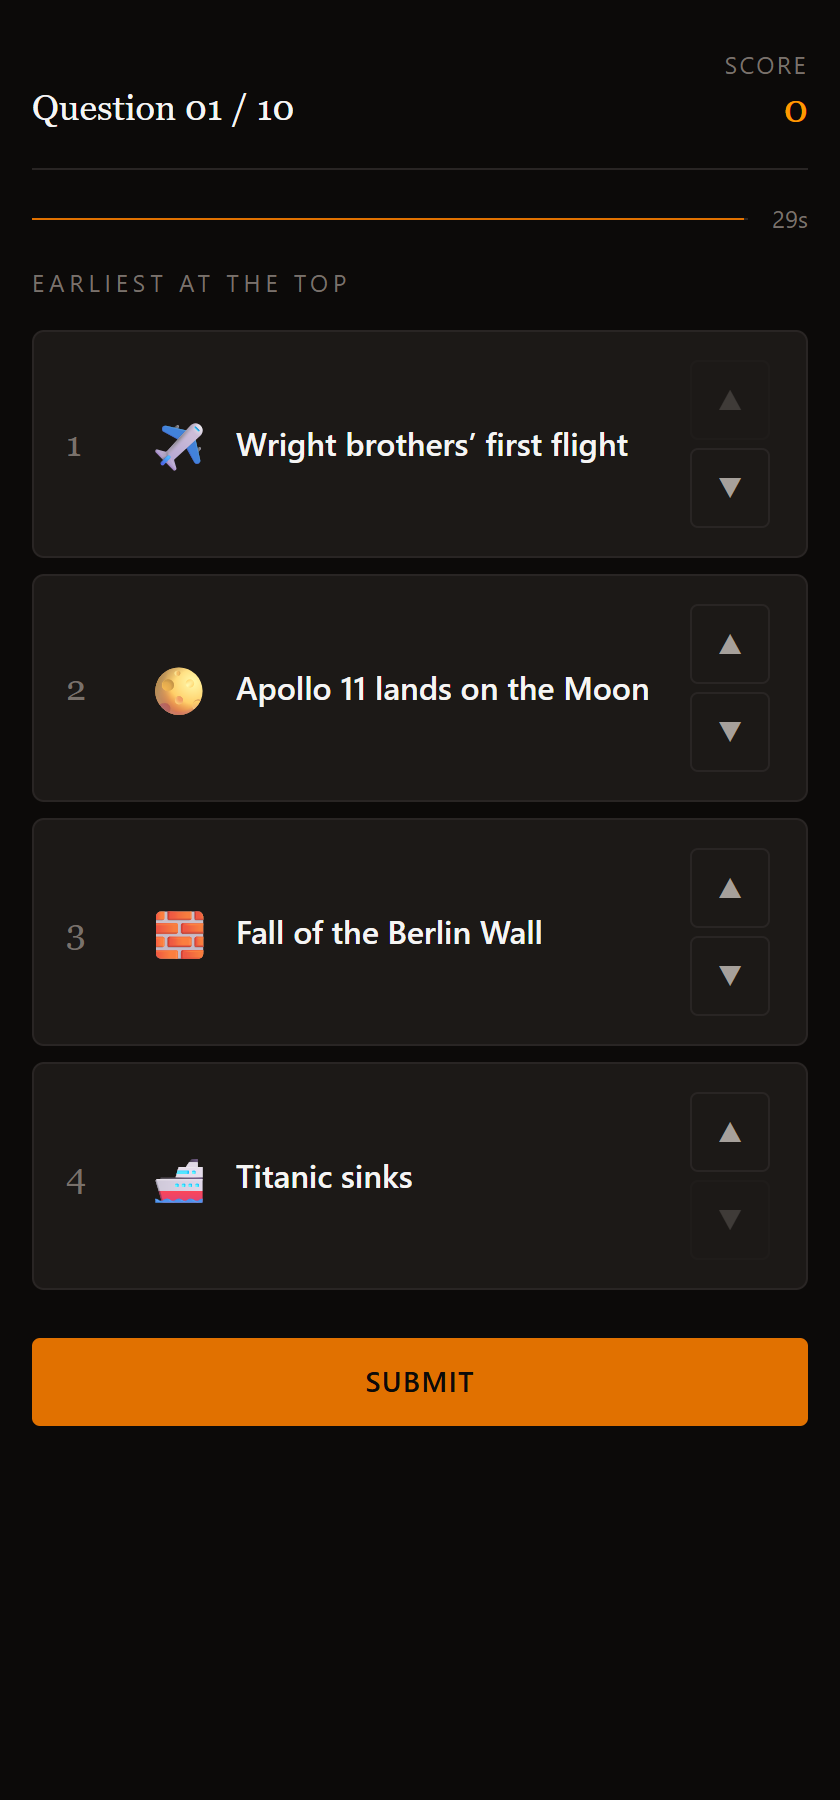
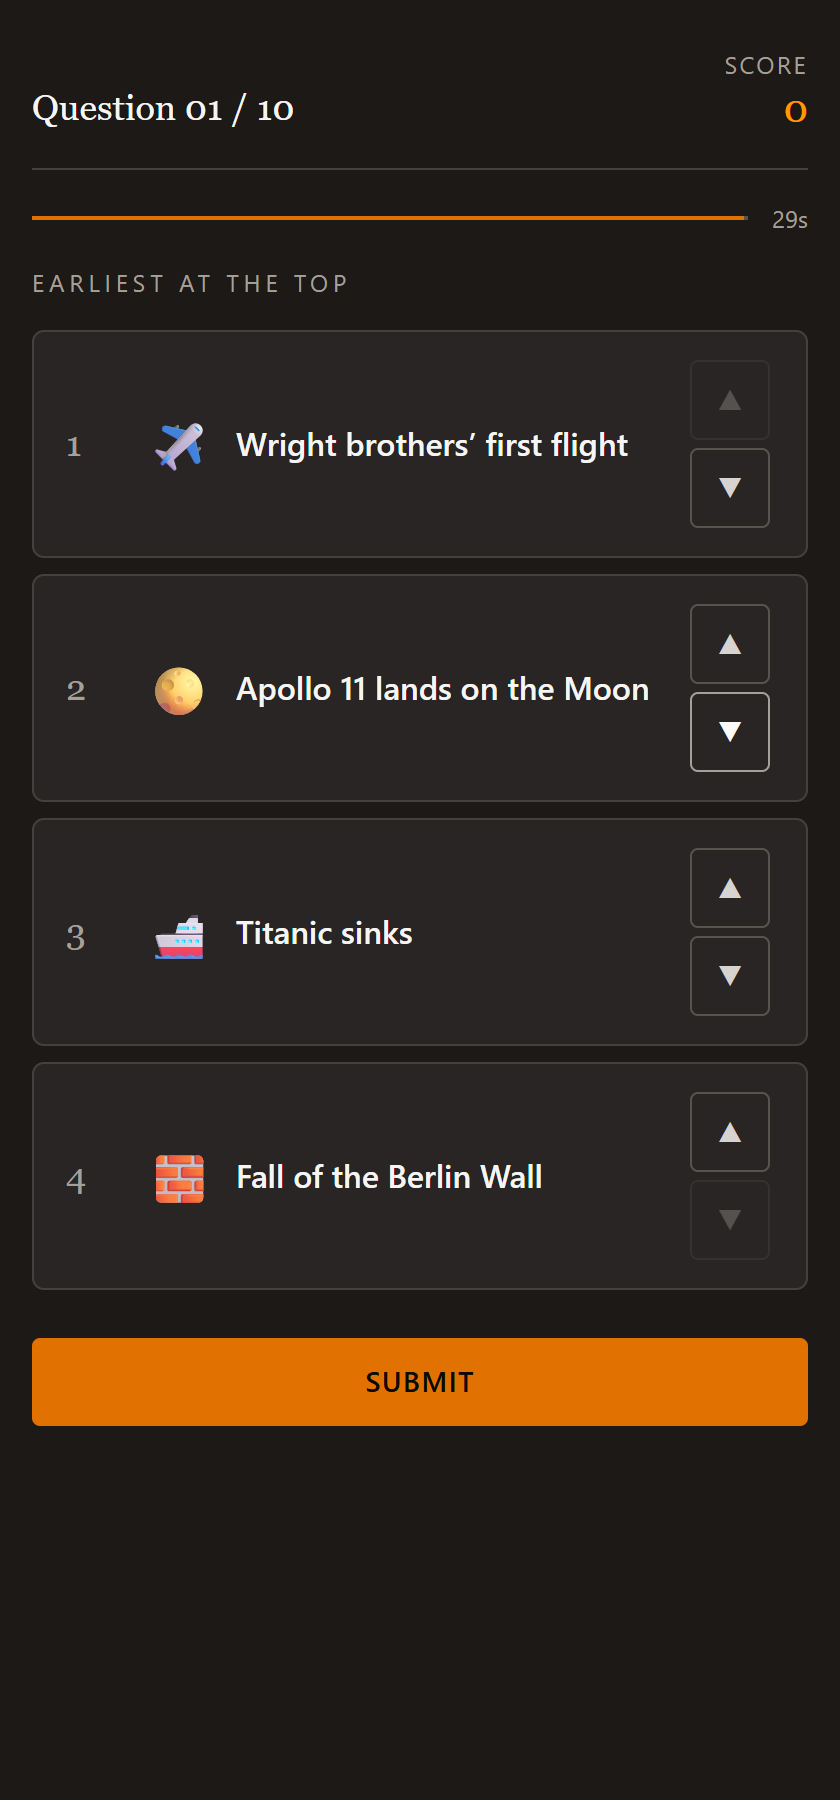
Move leaderboard onto the landing page and lighten the palette
Drop the separate leaderboard screen in favour of an inline section on the
start page (with the player's projected rank after a game), and lift the
theme from near-black to charcoal for readability.

Generated with [Devin](https://devin.ai)

diff --git a/which-happened-first/src/App.tsx b/which-happened-first/src/App.tsx
@@ -22,14 +22,14 @@ function shuffle(events: HistoricalEvent[]): HistoricalEvent[] {
   return arr;
 }
 
-type Phase = 'start' | 'playing' | 'results' | 'leaderboard';
+type Phase = 'start' | 'playing' | 'results';
 type Result = { correct: boolean; points: number; slots: boolean[] };
 
 const btnPrimary =
   'rounded-sm px-6 py-3 font-semibold uppercase tracking-wider text-sm bg-amber-600 hover:bg-amber-500 text-stone-950 transition-colors';
 const btnGhost =
-  'rounded-sm px-6 py-3 text-sm uppercase tracking-wider border border-stone-700 text-stone-300 hover:border-stone-500 hover:text-stone-100 transition-colors';
-const sectionLabel = 'text-xs uppercase tracking-[0.2em] text-stone-500';
+  'rounded-sm px-6 py-3 text-sm uppercase tracking-wider border border-stone-600 text-stone-200 hover:border-stone-400 hover:text-stone-100 transition-colors';
+const sectionLabel = 'text-xs uppercase tracking-[0.2em] text-stone-400';
 
 export default function App() {
   const [phase, setPhase] = useState<Phase>('start');
@@ -43,7 +43,6 @@ export default function App() {
   const [bestStreak, setBestStreak] = useState(0);
   const [lastResult, setLastResult] = useState<Result | null>(null);
   const [lastScore, setLastScore] = useState<number | null>(null);
-  const [leaderboardFrom, setLeaderboardFrom] = useState<'start' | 'results'>('start');
 
   const correctOrder = [...QUESTIONS[qIndex]].sort((a, b) => a.year - b.year);
   const revealed = submitted;
@@ -107,29 +106,32 @@ export default function App() {
     setSubmitted(false); setTimeLeft(TOTAL_TIME); setLastResult(null);
   };
 
-  const openLeaderboard = (from: 'start' | 'results') => {
-    setLeaderboardFrom(from);
-    setPhase('leaderboard');
-  };
-
   const shown = revealed ? correctOrder : order;
 
   return (
-    <div className="min-h-screen bg-stone-950 text-stone-100">
+    <div className="min-h-screen bg-stone-900 text-stone-100">
       <div className="max-w-xl mx-auto p-4 sm:p-6">
         {phase === 'start' && (
           <div className="pt-14">
             <p className={sectionLabel}>A chronology game</p>
             <h1 className="font-display text-4xl sm:text-5xl tracking-tight mt-3">Which Happened First?</h1>
-            <p className="text-stone-400 mt-4">Four events. Thirty seconds. Put them in order.</p>
+            <p className="text-stone-300 mt-4">Four events. Thirty seconds. Put them in order.</p>
             <div className="flex gap-3 mt-8">
               <button type="button" className={btnPrimary} onClick={start}>Start</button>
-              <button type="button" className={btnGhost} onClick={() => openLeaderboard('start')}>
+              <button
+                type="button"
+                className={btnGhost}
+                onClick={() =>
+                  document.getElementById('leaderboard')?.scrollIntoView({ behavior: 'smooth' })
+                }
+              >
                 Leaderboard
               </button>
             </div>
 
-            <div className="border-t border-stone-800 mt-12 pt-10 space-y-10">
+            <div className="border-t border-stone-700 mt-12 pt-10 space-y-10">
+              <Leaderboard playerScore={lastScore} />
+
               <section>
                 <p className={sectionLabel}>How it works</p>
                 <div className="grid sm:grid-cols-3 gap-6 mt-4">
@@ -140,7 +142,7 @@ export default function App() {
                   ].map((step, i) => (
                     <div key={step}>
                       <div className="font-display text-amber-500 text-lg">{String(i + 1).padStart(2, '0')}</div>
-                      <p className="text-stone-300 text-sm leading-relaxed mt-1">{step}</p>
+                      <p className="text-stone-200 text-sm leading-relaxed mt-1">{step}</p>
                     </div>
                   ))}
                 </div>
@@ -148,7 +150,7 @@ export default function App() {
 
               <section>
                 <p className={sectionLabel}>Scoring</p>
-                <dl className="divide-y divide-stone-800 mt-4 border-y border-stone-800">
+                <dl className="divide-y divide-stone-700 mt-4 border-y border-stone-700">
                   {[
                     ['Perfect order', '100 pts'],
                     ['Time bonus (perfect order only)', '+1 pt per second left'],
@@ -157,7 +159,7 @@ export default function App() {
                     ['Maximum per game', '1,300 pts'],
                   ].map(([term, def]) => (
                     <div key={term} className="flex justify-between py-2.5 text-sm">
-                      <dt className="text-stone-400">{term}</dt>
+                      <dt className="text-stone-300">{term}</dt>
                       <dd className="text-stone-100 font-display tabular-nums">{def}</dd>
                     </div>
                   ))}
@@ -166,14 +168,14 @@ export default function App() {
 
               <section>
                 <p className={sectionLabel}>What you'll face</p>
-                <p className="text-stone-300 leading-relaxed mt-4 text-sm">
+                <p className="text-stone-200 leading-relaxed mt-4 text-sm">
                   Ten rounds, easy to hard — from the pyramids and the Roman Republic
                   through the medieval world to the twentieth century. Only the titles
                   are shown; the dates are revealed after you answer.
                 </p>
               </section>
 
-              <p className="text-xs text-stone-600">
+              <p className="text-xs text-stone-500">
                 No account needed · Runs entirely in your browser
               </p>
             </div>
@@ -182,12 +184,12 @@ export default function App() {
 
         {phase === 'playing' && (
           <div className="flex flex-col gap-4 pt-2">
-            <div className="flex items-end justify-between border-b border-stone-800 pb-4">
+            <div className="flex items-end justify-between border-b border-stone-700 pb-4">
               <span data-testid="question" className="font-display text-lg tabular-nums">
                 Question {String(qIndex + 1).padStart(2, '0')} / {NUM_QUESTIONS}
               </span>
               <div className="text-right">
-                <div className="text-stone-500 text-xs uppercase tracking-widest">Score</div>
+                <div className="text-stone-400 text-xs uppercase tracking-widest">Score</div>
                 <div data-testid="score" className="font-display text-xl text-amber-500 tabular-nums">{score}</div>
               </div>
             </div>
@@ -226,7 +228,7 @@ export default function App() {
                   >
                     {lastResult?.correct ? 'Correct' : 'Incorrect'} — +{lastResult?.points}
                   </div>
-                  <div className="text-stone-500 text-sm mt-0.5">
+                  <div className="text-stone-400 text-sm mt-0.5">
                     {lastResult?.correct
                       ? `Perfect order · 100 pts + ${lastResult.points - 100} s bonus`
                       : `${lastResult?.slots.filter(Boolean).length} of ${shown.length} cards in place`}
@@ -246,36 +248,28 @@ export default function App() {
             <div data-testid="final-score" className="font-display text-7xl text-amber-500 tabular-nums mt-4">
               {score.toLocaleString('en-US')}
             </div>
-            <div className="grid grid-cols-3 gap-4 mt-10 border-y border-stone-800 py-5">
+            <div className="grid grid-cols-3 gap-4 mt-10 border-y border-stone-700 py-5">
               {([
                 ['Correct', `${correctCount} / ${NUM_QUESTIONS}`, null],
                 ['Best streak', String(bestStreak), null],
                 ['Rank', `#${rankFor(score)}`, 'worldwide'],
               ] as [string, string, string | null][]).map(([label, value, sub]) => (
                 <div key={label}>
-                  <div className="text-stone-500 text-xs uppercase tracking-widest">{label}</div>
+                  <div className="text-stone-400 text-xs uppercase tracking-widest">{label}</div>
                   <div className="font-display text-xl text-stone-100 tabular-nums mt-1">
                     {value}
-                    {sub && <span className="text-xs text-stone-500 ml-1">{sub}</span>}
+                    {sub && <span className="text-xs text-stone-400 ml-1">{sub}</span>}
                   </div>
                 </div>
               ))}
             </div>
             <div className="flex gap-3 mt-8">
               <button type="button" className={btnPrimary} onClick={start}>Play again</button>
-              <button type="button" className={btnGhost} onClick={() => openLeaderboard('results')}>
-                Leaderboard
+              <button type="button" className={btnGhost} onClick={() => setPhase('start')}>
+                Back to start
               </button>
             </div>
           </div>
-        )}
-
-        {phase === 'leaderboard' && (
-          <Leaderboard
-            playerScore={lastScore}
-            onBack={() => setPhase(leaderboardFrom)}
-            onPlay={start}
-          />
         )}
       </div>
     </div>

diff --git a/which-happened-first/src/components/Leaderboard.tsx b/which-happened-first/src/components/Leaderboard.tsx
@@ -1,37 +1,26 @@
 import { LEADERBOARD, rankFor } from '../leaderboard';
 
-type Props = {
-  playerScore: number | null;
-  onBack: () => void;
-  onPlay: () => void;
-};
-
-const btnPrimary =
-  'rounded-sm px-6 py-3 font-semibold uppercase tracking-wider text-sm bg-amber-600 hover:bg-amber-500 text-stone-950 transition-colors';
-const btnGhost =
-  'rounded-sm px-6 py-3 text-sm uppercase tracking-wider border border-stone-700 text-stone-300 hover:border-stone-500 hover:text-stone-100 transition-colors';
-
-export default function Leaderboard({ playerScore, onBack, onPlay }: Props) {
+export default function Leaderboard({ playerScore }: { playerScore: number | null }) {
   return (
-    <div className="pt-10">
-      <p className="text-xs uppercase tracking-[0.2em] text-stone-500">Worldwide</p>
-      <h1 className="font-display text-4xl sm:text-5xl tracking-tight mt-2">Top 15 players</h1>
-      <p className="text-stone-500 text-sm mt-2">Best single-game scores</p>
+    <section id="leaderboard">
+      <p className="text-xs uppercase tracking-[0.2em] text-stone-400">Worldwide leaderboard</p>
+      <h2 className="font-display text-2xl mt-2">Top 15 players</h2>
+      <p className="text-stone-400 text-sm mt-1">Best single-game scores</p>
 
-      <div className="divide-y divide-stone-800 mt-8 border-y border-stone-800">
+      <div className="divide-y divide-stone-700 mt-5 border-y border-stone-700">
         {LEADERBOARD.map((p, i) => (
           <div
             data-testid="leaderboard-row"
             key={p.name}
             className="grid grid-cols-[2.5rem_1fr_auto] items-center py-3"
           >
-            <span className={`font-display ${i < 3 ? 'text-amber-500' : 'text-stone-500'}`}>
+            <span className={`font-display ${i < 3 ? 'text-amber-500' : 'text-stone-400'}`}>
               {i + 1}
             </span>
             <span className="min-w-0">
               <span className="text-stone-100 block">{p.name}</span>
-              <span className="text-xs text-stone-500">
-                <span className="text-[10px] uppercase tracking-widest text-stone-600 mr-1.5">{p.code}</span>
+              <span className="text-xs text-stone-400">
+                <span className="text-[10px] uppercase tracking-widest text-stone-500 mr-1.5">{p.code}</span>
                 {p.country}
               </span>
             </span>
@@ -43,20 +32,11 @@ export default function Leaderboard({ playerScore, onBack, onPlay }: Props) {
       {playerScore !== null && (
         <div
           data-testid="leaderboard-you"
-          className="border-t border-amber-600/40 bg-amber-950/20 px-4 py-3 text-sm text-stone-300"
+          className="border-t border-amber-600/40 bg-amber-900/30 px-4 py-3 text-sm text-stone-200"
         >
           You — {playerScore.toLocaleString('en-US')} — would rank #{rankFor(playerScore)}
         </div>
       )}
-
-      <div className="flex gap-3 mt-8">
-        <button type="button" className={btnGhost} onClick={onBack}>
-          Back
-        </button>
-        <button type="button" className={btnPrimary} onClick={onPlay}>
-          Play
-        </button>
-      </div>
-    </div>
+    </section>
   );
 }

diff --git a/_verify/play.js b/_verify/play.js
@@ -72,24 +72,16 @@ function slotsFor(shown, correct) {
   page.on('pageerror', (e) => console.log('PAGE ERROR:', e.message));
   await page.goto(URL, { waitUntil: 'networkidle0' });
 
-  // --- Start screen ---
+  // --- Start screen (leaderboard is inline on the landing page) ---
   check('start screen title', await page.$eval('h1', (e) => e.textContent) === 'Which Happened First?');
-
-  // --- Leaderboard from start ---
-  await clickButtonByText(page, 'Leaderboard');
-  await sleep(250);
-  let rows = await page.$$(tid('leaderboard-row'));
-  check('leaderboard shows 15 rows', rows.length === 15, `${rows.length} rows`);
+  const rows = await page.$$(tid('leaderboard-row'));
+  check('leaderboard shows 15 rows on start page', rows.length === 15, `${rows.length} rows`);
   const rowScores = await page.$$eval(tid('leaderboard-row'), (els) =>
     els.map((e) => parseInt(e.lastElementChild.textContent.replace(/[^0-9]/g, ''), 10)));
   check('leaderboard rows in descending score order',
     rowScores.every((s, i) => i === 0 || rowScores[i - 1] >= s),
     JSON.stringify(rowScores.slice(0, 5)));
   check('no "You" row before a game', (await page.$(tid('leaderboard-you'))) === null);
-  await clickButtonByText(page, 'Back');
-  await sleep(250);
-  check('Back returns to start screen',
-    await page.$eval('h1', (e) => e.textContent) === 'Which Happened First?');
 
   // --- Q1: reorder with arrows, sort correctly, submit ---
   await clickButtonByText(page, 'Start');
@@ -201,11 +193,11 @@ function slotsFor(shown, correct) {
   check('results rank shown', bodyText.includes(`#${rankFor(expectedScore)}`),
     `expected #${rankFor(expectedScore)}`);
 
-  // --- Leaderboard from results shows the "You" row ---
-  await clickButtonByText(page, 'Leaderboard');
-  await sleep(250);
-  rows = await page.$$(tid('leaderboard-row'));
-  check('leaderboard still 15 rows', rows.length === 15);
+  // --- "Back to start" → landing shows the leaderboard with the "You" row ---
+  await clickButtonByText(page, 'Back to start');
+  await sleep(300);
+  check('Back to start returns to landing',
+    await page.$eval('h1', (e) => e.textContent) === 'Which Happened First?');
   const youRow = await page.$(tid('leaderboard-you'));
   check('"You" row present after a game', youRow !== null);
   if (youRow) {
@@ -215,11 +207,8 @@ function slotsFor(shown, correct) {
       youText.includes(expectedScore.toLocaleString('en-US')),
       `row="${youText}"`);
   }
-  await clickButtonByText(page, 'Back');
-  await sleep(250);
-  check('Back returns to results', (await page.$(tid('final-score'))) !== null);
 
-  await clickButtonByText(page, 'Play again');
+  await clickButtonByText(page, 'Start');
   await sleep(300);
   const replay = await page.$eval('body', (e) => e.innerText);
   check('Play again resets to Q1 with score 0',

diff --git a/which-happened-first/src/components/EventCard.tsx b/which-happened-first/src/components/EventCard.tsx
@@ -13,9 +13,9 @@ type Props = {
 export default function EventCard({ event, index, total, revealed, correct, onUp, onDown }: Props) {
   const revealStyle = revealed
     ? correct
-      ? 'border-emerald-600 bg-emerald-950/50'
-      : 'border-red-700 bg-red-950/50'
-    : 'border-stone-800 bg-stone-900';
+      ? 'border-emerald-600 bg-emerald-900/40'
+      : 'border-red-700 bg-red-900/40'
+    : 'border-stone-700 bg-stone-800';
 
   const arrow = (dir: -1 | 1, disabled: boolean, label: string) => (
     <button
@@ -28,8 +28,8 @@ export default function EventCard({ event, index, total, revealed, correct, onUp
       }`}
     >
       <span
-        className={`w-10 h-10 flex items-center justify-center border border-stone-800 rounded-sm text-stone-400 text-sm ${
-          disabled ? '' : 'group-hover:text-stone-100 group-hover:border-stone-600'}`}
+        className={`w-10 h-10 flex items-center justify-center border border-stone-600 rounded-sm text-stone-300 text-sm ${
+          disabled ? '' : 'group-hover:text-stone-50 group-hover:border-stone-400'}`}
       >{dir === -1 ? '▲' : '▼'}</span>
     </button>
   );
@@ -40,7 +40,7 @@ export default function EventCard({ event, index, total, revealed, correct, onUp
       data-correct={revealed ? String(Boolean(correct)) : undefined}
       className={`rounded-md border px-4 py-3 transition-colors duration-300 flex items-center gap-4 ${revealStyle}`}
     >
-      <div className="font-display text-stone-500 text-lg w-6 shrink-0 tabular-nums">
+      <div className="font-display text-stone-400 text-lg w-6 shrink-0 tabular-nums">
         {index + 1}
       </div>
       <div className="flex-1 min-w-0">

diff --git a/which-happened-first/src/components/Timer.tsx b/which-happened-first/src/components/Timer.tsx
@@ -4,13 +4,13 @@ export default function Timer({ timeLeft, total }: { timeLeft: number; total: nu
 
   return (
     <div className="flex items-center gap-3">
-      <div className="h-px bg-stone-800 flex-1">
+      <div className="h-0.5 bg-stone-600 flex-1">
         <div
-          className={`${barColor} h-px transition-[width] duration-1000 ease-linear`}
+          className={`${barColor} h-0.5 transition-[width] duration-1000 ease-linear`}
           style={{ width: `${pct}%` }}
         />
       </div>
-      <span data-testid="timer-seconds" className="text-xs tabular-nums text-stone-500">
+      <span data-testid="timer-seconds" className="text-xs tabular-nums text-stone-400">
         {timeLeft}s
       </span>
     </div>

diff --git a/_verify/shots.js b/_verify/shots.js
@@ -91,8 +91,8 @@ async function clickButtonByText(page, text) {
   await sleep(400);
   await page.screenshot({ path: path.join(OUT, 'results.png'), fullPage: true });
 
-  // Leaderboard (with "You" row)
-  await clickButtonByText(page, 'Leaderboard');
+  // Leaderboard = start page after a game (with "You" row)
+  await clickButtonByText(page, 'Back to start');
   await sleep(300);
   await page.screenshot({ path: path.join(OUT, 'leaderboard.png'), fullPage: true });
 

diff --git a/which-happened-first/src/index.css b/which-happened-first/src/index.css
@@ -5,5 +5,5 @@
 }
 
 body {
-  background: #0c0a09;
+  background: #1c1917;
 }
